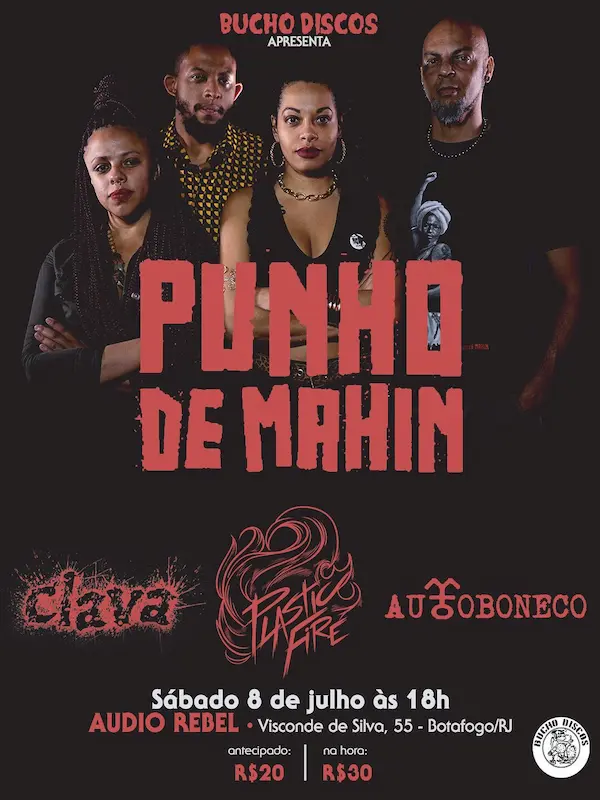
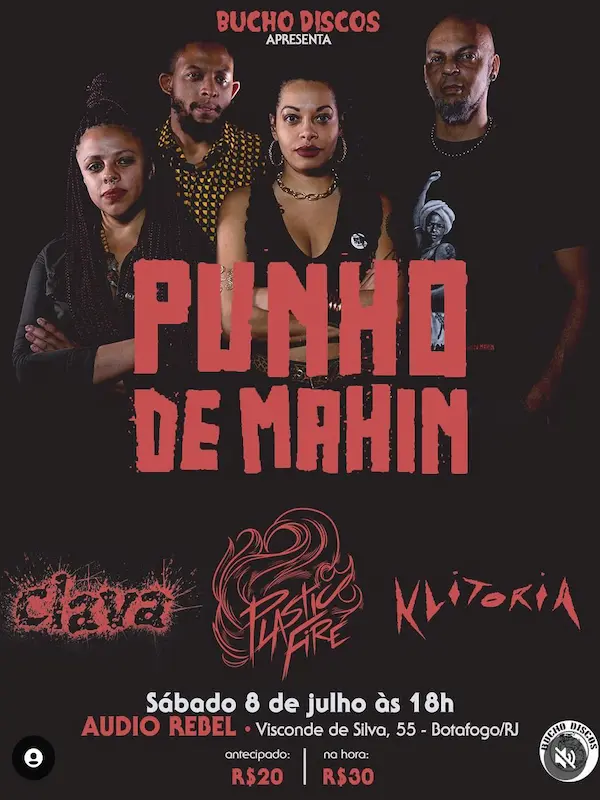
Deploying to gh-pages from @ undershows/gigs@7731e724b57ec9ef6318b99fd5821e8fc1fb45f0 🚀

diff --git a/index.html b/index.html
@@ -85,8 +85,16 @@
 </p><p style="font-size:30px; text-align:center;">
         JULHO/JULY
       </p><p style="font-size:20px; text-align:center;">
-            <b>07/08/09</b>
+            <b>06/07/08/09</b>
           </p><p style="font-size:20px; text-align:center;">
+                <b>
+                  São Paulo/SP ↓↓↓
+                </b>
+              </p><img alt="Cartaz de show em São Paulo, 6 de julho de 2023 às 21:00" width="600" height="800" src="/_astro/358140181_6334886216618769_6844442714030086885_n_Z1kSfn4.webp" loading="lazy" decoding="async"><p style="font-size:20px; text-align:center;">
+                <b>
+                  Sorocaba/SP ↓↓↓
+                </b>
+              </p><img alt="Cartaz de show em Sorocaba, 8 de julho de 2023 às 14:00" width="600" height="800" src="/_astro/358418987_3638137089752934_7897714952557387859_n_ZSiHlj.webp" loading="lazy" decoding="async"><p style="font-size:20px; text-align:center;">
                 <b>
                   Birigui/SP ↓↓↓
                 </b>
@@ -110,7 +118,15 @@
                 <b>
                   São Paulo/SP ↓↓↓
                 </b>
+              </p><img alt="Cartaz de show em São Paulo, 8 de julho de 2023 às 19:00" width="600" height="800" src="/_astro/347417806_6846798022050596_4506803026806405301_n_Z1k5qPi.webp" loading="lazy" decoding="async"><p style="font-size:20px; text-align:center;">
+                <b>
+                  São Paulo/SP ↓↓↓
+                </b>
               </p><img alt="Cartaz de show em São Paulo, 9 de julho de 2023 às 00:00" width="600" height="800" src="/_astro/350492962_791028479346151_5097889557565060111_n_Z1uBmLC.webp" loading="lazy" decoding="async"><p style="font-size:20px; text-align:center;">
+                <b>
+                  Guarulhos/SP ↓↓↓
+                </b>
+              </p><img alt="Cartaz de show em Guarulhos, 9 de julho de 2023 às 16:00" width="600" height="800" src="/_astro/358384640_10223361918901216_6164421534077402281_n_13z6hA.webp" loading="lazy" decoding="async"><p style="font-size:20px; text-align:center;">
                 <b>
                   Ribeirão Pires/SP ↓↓↓
                 </b>
@@ -125,6 +141,10 @@
                   São Paulo/SP ↓↓↓
                 </b>
               </p><img alt="Cartaz de show em São Paulo, 15 de julho de 2023 às 18:00" width="600" height="800" src="/_astro/358081147_6466685353391686_2519296040733213862_n_Z22QzUS.webp" loading="lazy" decoding="async"><p style="font-size:20px; text-align:center;">
+                <b>
+                  Santa Fé do Sul/SP ↓↓↓
+                </b>
+              </p><img alt="Cartaz de show em Santa Fé do Sul, 15 de julho de 2023 às 18:00" width="600" height="800" src="/_astro/357716288_6343446672416001_2430719538874992326_n_Z2woJ2O.webp" loading="lazy" decoding="async"><p style="font-size:20px; text-align:center;">
             <b>21/22/23</b>
           </p><p style="font-size:20px; text-align:center;">
                 <b>
@@ -135,6 +155,10 @@
                   São José dos Campos/SP ↓↓↓
                 </b>
               </p><img alt="Cartaz de show em São José dos Campos, 23 de julho de 2023 às 17:00" width="600" height="800" src="/_astro/353768449_2503785969773910_5374944131116171325_n_2mEn44.webp" loading="lazy" decoding="async"><p style="font-size:20px; text-align:center;">
+                <b>
+                  São Paulo/SP ↓↓↓
+                </b>
+              </p><img alt="Cartaz de show em São Paulo, 23 de julho de 2023 às 18:00" width="600" height="800" src="/_astro/357516361_6395610627185871_5174919592520165321_n_Zjrkx1.webp" loading="lazy" decoding="async"><p style="font-size:20px; text-align:center;">
             <b>28/29/30</b>
           </p><p style="font-size:20px; text-align:center;">
                 <b>

diff --git a/df/index.html b/df/index.html
@@ -94,5 +94,11 @@
                 <b>
                   Brasília/DF ↓↓↓
                 </b>
-              </p><img alt="Cartaz de show em Brasília, 8 de julho de 2023 às 20:00" width="600" height="800" src="/_astro/350822033_264924739343086_589487049588981807_n_3sQ72.webp" loading="lazy" decoding="async">
+              </p><img alt="Cartaz de show em Brasília, 8 de julho de 2023 às 20:00" width="600" height="800" src="/_astro/350822033_264924739343086_589487049588981807_n_3sQ72.webp" loading="lazy" decoding="async"><p style="font-size:20px; text-align:center;">
+            <b>14/15/16</b>
+          </p><p style="font-size:20px; text-align:center;">
+                <b>
+                  Brasília/DF ↓↓↓
+                </b>
+              </p><img alt="Cartaz de show em Brasília, 16 de julho de 2023 às 16:00" width="600" height="800" src="/_astro/357419348_10230193774525071_2419751524678888704_n_ZayYSt.webp" loading="lazy" decoding="async">
   </body></html>

diff --git a/pa/index.html b/pa/index.html
@@ -85,6 +85,12 @@
 </p><p style="font-size:30px; text-align:center;">
         JULHO/JULY
       </p><p style="font-size:20px; text-align:center;">
+            <b>07/08/09</b>
+          </p><p style="font-size:20px; text-align:center;">
+                <b>
+                  Belém/PA ↓↓↓
+                </b>
+              </p><img alt="Cartaz de show em Belém, 9 de julho de 2023 às 19:00" width="600" height="800" src="/_astro/357478363_6353855444690700_4745120724379644739_n_2o2nNI.webp" loading="lazy" decoding="async"><p style="font-size:20px; text-align:center;">
             <b>13/14/15/16</b>
           </p><p style="font-size:20px; text-align:center;">
                 <b>
